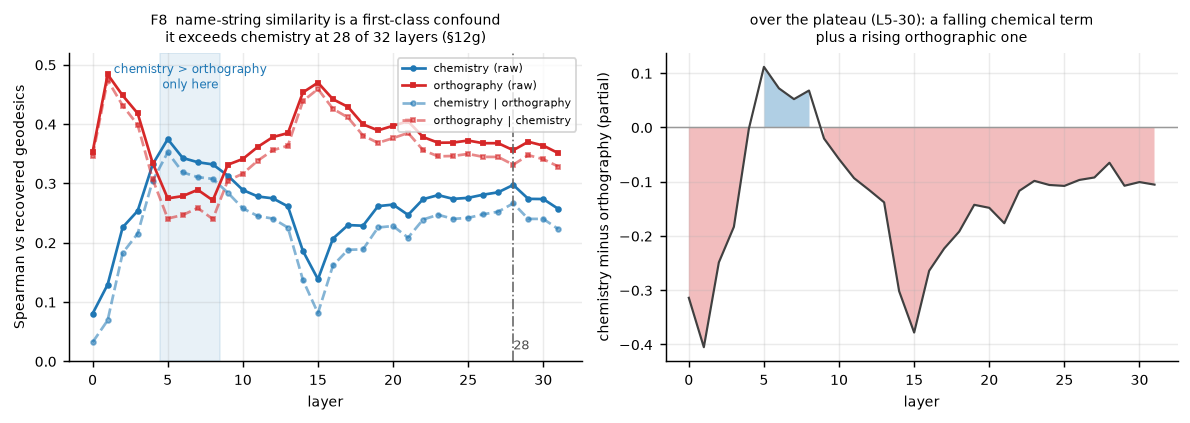
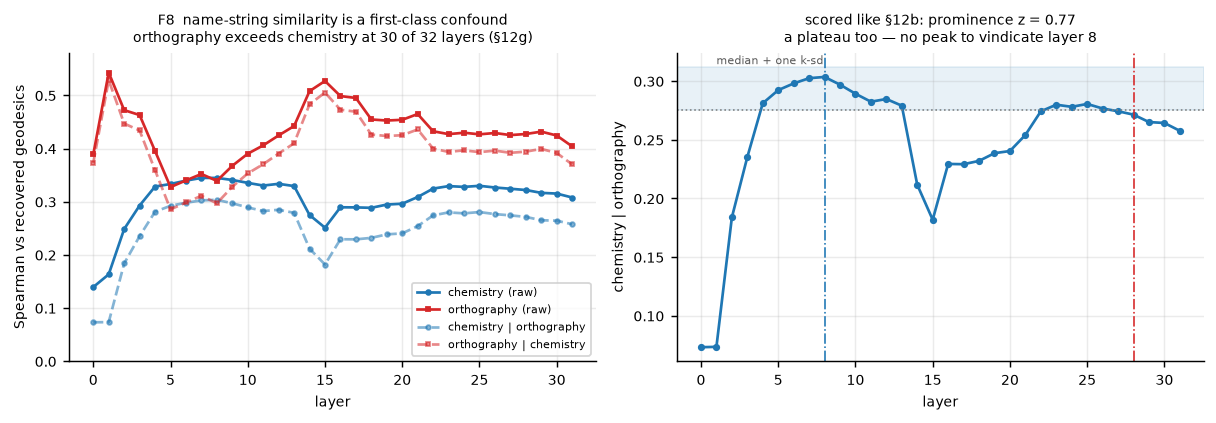
Reconcile §12g: arithmetic closes, but two of its consequences were wrong pair set
The reconciliation check was demanded before Level 3 and it found a real error --
in the correction, not in the original reversal.

RECONCILIATION. The partial reproduces exactly from the three zero-order rhos at
every layer ((r_gT - r_gN*r_TN)/sqrt((1-r_gN^2)(1-r_TN^2)), three decimals,
32/32). So the formula is right. The apparent impossibility -- a plateau layer
dropping to 0.08 under a rho=0.144 correction -- resolves as two of the three
proposed causes at once:
  - the ALL-PAIRS raw correlation at layers 14-15 really was low (0.186, 0.138),
    so "flat raw curve" was never true of that series; the §3g plateau was
    established on the UNCENSORED series, where those layers read 0.275/0.251;
  - rho(Tanimoto, name-string) is 0.144 all-pairs but 0.190 UNCENSORED, because
    censored pairs are the zero-overlap ones and are also more name-dissimilar.
§12g had been computed on all pairs while the headline Level 1 lives on the
uncensored set -- the same inconsistency class as the earlier within_group_rsa
error. orthography_vs_chemistry now defaults to uncensored and records which set
it used.

WITHDRAWN, after scoring the partial profile by the same noise-unit statistic
§12b used to reject a peak (across the k grid, uncensored):
  raw uncensored RSA                  prominence z = 0.57  -> no peak
  partial chemistry|orthography       prominence z = 0.77  -> NO PEAK
  partial, all pairs (wrong set)      prominence z = 2.16  -> would have been one
[…]

diff --git a/scripts/figures_stage_a.py b/scripts/figures_stage_a.py
@@ -179,9 +179,15 @@ def figure_pca_dim_sweep():
 
 
 def figure_orthography():
-    """§12g: the chemical component of Level 1, with name similarity partialled out."""
+    """§12g: chemistry vs orthography, on the UNCENSORED pair set (the headline's)."""
     d = pd.read_csv(config.RESULTS / "orthography_profile.csv").sort_values("layer")
-    fig, ax = plt.subplots(1, 2, figsize=(9.2, 3.3))
+    prof = pd.read_parquet(config.RESULTS / "orthography_profile.parquet")
+    prof = prof[prof.uncensored]
+    ksd = float(prof.groupby("layer").partial_geo_truth_given_name.std().mean())
+    tail = d.set_index("layer").partial_geo_truth_given_name.loc[4:]
+    z = (tail.max() - tail.median()) / ksd
+
+    fig, ax = plt.subplots(1, 2, figsize=(9.4, 3.3))
     a = ax[0]
     a.plot(d.layer, d.rho_geo_truth, "o-", ms=2.6, color="C0", label="chemistry (raw)")
     a.plot(d.layer, d.rho_geo_name, "s-", ms=2.4, color="C3", label="orthography (raw)")
@@ -189,27 +195,22 @@ def figure_orthography():
            label="chemistry | orthography")
     a.plot(d.layer, d.partial_geo_name_given_truth, "s--", ms=2.4, color="C3", alpha=.55,
            label="orthography | chemistry")
-    win = d[d.partial_geo_truth_given_name > d.partial_geo_name_given_truth]
-    if len(win):
-        a.axvspan(win.layer.min() - .5, win.layer.max() + .5, color="C0", alpha=.10)
-        a.annotate("chemistry > orthography\nonly here", (win.layer.mean(), .46),
-                   ha="center", fontsize=6.5, color="C0")
-    a.axvline(28, color="0.4", ls="-.", lw=.9)
-    a.annotate("28", (28, .02), fontsize=7, color="0.3")
+    n_orth = int((d.partial_geo_name_given_truth > d.partial_geo_truth_given_name).sum())
     a.set_xlabel("layer"); a.set_ylabel("Spearman vs recovered geodesics")
-    a.set_title("F8  name-string similarity is a first-class confound\n"
-                "it exceeds chemistry at 28 of 32 layers (§12g)", fontsize=8)
-    a.legend(fontsize=6.2, loc="upper right"); a.set_ylim(0, .52)
+    a.set_title(f"F8  name-string similarity is a first-class confound\n"
+                f"orthography exceeds chemistry at {n_orth} of 32 layers (§12g)", fontsize=8)
+    a.legend(fontsize=6.2, loc="lower right"); a.set_ylim(0, .58)
 
     b = ax[1]
-    m = d.partial_geo_truth_given_name - d.partial_geo_name_given_truth
-    b.axhline(0, color="0.6", lw=.8)
-    b.fill_between(d.layer, 0, m, where=(m > 0), color="C0", alpha=.35, lw=0)
-    b.fill_between(d.layer, 0, m, where=(m <= 0), color="C3", alpha=.30, lw=0)
-    b.plot(d.layer, m, "-", color="0.25", lw=1.2)
-    b.set_xlabel("layer"); b.set_ylabel("chemistry minus orthography (partial)")
-    b.set_title("over the plateau (L5-30): a falling chemical term\n"
-                "plus a rising orthographic one", fontsize=8)
+    b.plot(d.layer, d.partial_geo_truth_given_name, "o-", ms=3, color="C0")
+    med = float(tail.median())
+    b.axhline(med, color="0.5", ls=":", lw=.9)
+    b.axhspan(med, med + ksd, color="C0", alpha=.10)
+    b.annotate(f"median + one k-sd", (1, med + ksd), fontsize=6.2, color="0.35", va="bottom")
+    b.axvline(8, color="C0", ls="-.", lw=.9); b.axvline(28, color="C3", ls="-.", lw=.9)
+    b.set_xlabel("layer"); b.set_ylabel("chemistry | orthography")
+    b.set_title(f"scored like §12b: prominence z = {z:.2f}\n"
+                f"a plateau too — no peak to vindicate layer 8", fontsize=8)
     fig.tight_layout()
     fig.savefig(config.FIGURES / "F8_orthography.png", bbox_inches="tight")
     print("wrote F8")

diff --git a/scripts/orthography_profile.py b/scripts/orthography_profile.py
@@ -1,0 +1,71 @@
+"""SPEC §12g: chemistry vs orthography across depth, scored the same way §12b was.
+
+Computed on the UNCENSORED pair set (the one the headline Level 1 lives on) and
+across the k grid, so the partial profile can be judged by the same noise-unit
+prominence statistic that rejected a peak in the raw profile. "By inspection" is
+not a criterion.
+
+    python scripts/orthography_profile.py
+"""
+from __future__ import annotations
+import sys
+from pathlib import Path
+sys.path.insert(0, str(Path(__file__).resolve().parent.parent))
+
+import numpy as np
+import pandas as pd
+import torch
+
+import config
+from src import chemistry as C, geometry as G, evaluation as E
+
+
+def main():
+    blob = torch.load(config.ACTS / "family1.pt", weights_only=False)
+    acts = blob["acts"].numpy()
+    df = pd.read_csv(config.DATA / "compounds.csv")
+    names = list(df["name"])
+    Dt = C.tanimoto_distance_matrix(df.smiles.tolist())
+
+    rows = []
+    for layer in range(config.N_LAYERS):
+        X = np.ascontiguousarray(acts[:, layer, :])
+        Xp, _ = G.pca_project(X, config.PCA_DIM)
+        ids = G.intrinsic_dimension(Xp)
+        d_hat = G.d_hat_from(ids, "id_mle")
+        for k in config.K_SWEEP:
+            _, D_geo, _ = G.isomap_embed(Xp, n_components=d_hat, k=k)
+            for unc in (True, False):
+                r = E.orthography_vs_chemistry(D_geo, Dt, names, uncensored=unc)
+                r.update(layer=layer, k=k)
+                rows.append(r)
+    out = pd.DataFrame(rows)
+    out.to_parquet(config.RESULTS / "orthography_profile.parquet", index=False)
+
+    for unc in (True, False):
+        sub = out[out.uncensored == unc]
+        tag = "UNCENSORED (headline pair set)" if unc else "all pairs"
+        prof = sub.groupby("layer")[["partial_geo_truth_given_name",
+                                     "partial_geo_name_given_truth",
+                                     "rho_geo_truth", "rho_geo_name"]].mean()
+        ksd = float(sub.groupby("layer").partial_geo_truth_given_name.std().mean())
+        tail = prof.partial_geo_truth_given_name.loc[4:]
+        z = (tail.max() - tail.median()) / ksd
+        n_orth = int((prof.partial_geo_name_given_truth
+                      > prof.partial_geo_truth_given_name).sum())
+        print(f"\n=== {tag} ===")
+        print(f"  chemistry|orthography: max {tail.max():.3f} at layer {int(tail.idxmax())}, "
+              f"median {tail.median():.3f}, layer 28 {prof.partial_geo_truth_given_name.loc[28]:.3f}")
+        print(f"  k-sweep sd = {ksd:.4f}")
+        print(f"  PROMINENCE z = {z:.2f}   (§12b rejected a peak at 0.50-1.00)")
+        print(f"  layers where orthography exceeds chemistry: {n_orth}/32")
+
+    piv = (out[out.uncensored].groupby("layer")[["rho_geo_truth", "rho_geo_name",
+           "partial_geo_truth_given_name", "partial_geo_name_given_truth"]].mean())
+    piv.to_csv(config.RESULTS / "orthography_profile.csv")
+    print("\nuncensored profile (mean over k):")
+    print(piv.loc[[0, 4, 5, 8, 10, 14, 15, 20, 24, 28, 31]].round(3).to_string())
+
+
+if __name__ == "__main__":
+    main()

diff --git a/src/evaluation.py b/src/evaluation.py
@@ -408,7 +408,8 @@ def partial_spearman(x: np.ndarray, y: np.ndarray, z: np.ndarray) -> float:
     return float((rxy - rxz * ryz) / denom) if denom > 0 else float("nan")
 
 
-def orthography_vs_chemistry(D_recovered, D_truth, names, final_tokens=None) -> dict:
+def orthography_vs_chemistry(D_recovered, D_truth, names, final_tokens=None,
+                             censor_at: float = 1.0, uncensored: bool = True) -> dict:
     """Does the recovered geometry track name strings independently of chemistry?
 
     This is the DIRECT form of the confound that `within_group_rsa` only tests
@@ -422,6 +423,14 @@ def orthography_vs_chemistry(D_recovered, D_truth, names, final_tokens=None) -> 
     Dn = name_distance_matrix(names)
     iu = np.triu_indices_from(D_truth, k=1)
     g, t, nm = D_recovered[iu], D_truth[iu], Dn[iu]
+    # Default to the UNCENSORED pair set, because that is the pair set the
+    # headline Level 1 number lives on. Computing this on all pairs while the
+    # headline is uncensored makes the two incomparable -- and it matters here:
+    # rho(Tanimoto, name-string) is 0.144 over all pairs but 0.190 uncensored,
+    # since censored pairs are the zero-overlap ones and are also more
+    # name-dissimilar.
+    keep = np.ones_like(t, dtype=bool) if not uncensored else (t < censor_at - 1e-6)
+    g, t, nm = g[keep], t[keep], nm[keep]
     out = {
         "rho_geo_truth": float(spearmanr(g, t).statistic),
         "rho_geo_name": float(spearmanr(g, nm).statistic),
@@ -429,9 +438,11 @@ def orthography_vs_chemistry(D_recovered, D_truth, names, final_tokens=None) -> 
         "partial_geo_name_given_truth": partial_spearman(g, nm, t),
         "partial_geo_truth_given_name": partial_spearman(g, t, nm),
     }
+    out["n_pairs"] = int(g.size)
+    out["uncensored"] = bool(uncensored)
     if final_tokens is not None:
         ft = np.asarray(final_tokens)
-        tk = (ft[:, None] != ft[None, :]).astype(np.float32)[iu]
+        tk = (ft[:, None] != ft[None, :]).astype(np.float32)[iu][keep]
         out["rho_geo_difftoken"] = float(spearmanr(g, tk).statistic)
         out["partial_geo_difftoken_given_truth"] = partial_spearman(g, tk, t)
         out["partial_geo_truth_given_difftoken"] = partial_spearman(g, t, tk)

diff --git a/SPEC.md b/SPEC.md
@@ -834,85 +834,93 @@ Report the bootstrap **median and 2.5/97.5 percentiles** of `r` rather than
 mean ± SE, since a heavy-tailed ratio has no useful mean.
 
 
-### 12g. Orthography is a first-class confound, and at most layers it dominates
+### 12g. Orthography is a first-class confound (revised: pair set corrected)
 
-**This reverses a claim made in an earlier draft of §11c-bis.** The
-within-final-token control was read as showing the grouping variable is
-"chemistry, not orthography". Its own numbers say the opposite, and the direct
-measurement confirms it.
+**This reverses a claim in an earlier draft of §11c-bis** — that the grouping
+variable is "chemistry, not orthography" — and then **withdraws two consequences
+this section itself drew**, which were computed on the wrong pair set.
 
-**Why the proxy comparison was uninterpretable.** Final token gives ρ = 0.556 and
-functional class ρ = 0.439; the partitions differ in granularity, group count,
-size distribution and within-group Tanimoto range, and range restriction moves ρ
-by itself. Putting both on one scale via their *own* size-matched nulls:
+**The proxy comparison was uninterpretable.** Final token gives ρ = 0.556 and
+functional class 0.439; the partitions differ in granularity, group count, size
+distribution and within-group Tanimoto range, and range restriction moves ρ by
+itself. Each partition against its *own* size-matched null:
 
 | partition | ρ (uncensored) | null | **z** | groups |
 |---|---|---|---|---|
 | final token | 0.556 | 0.343 ± 0.022 | **9.5** | 9 |
 | functional class | 0.439 | 0.343 ± 0.023 | **4.2** | 12 |
 
-The orthographic partition is more than twice as far above its null.
+The orthographic partition is more than twice as far above its null, which is the
+opposite of what the withdrawn claim asserted.
 
-**The direct test.** Take the Spearman partial correlation of recovered geodesics
-against name-string distance (1 − difflib ratio) controlling for Tanimoto, and
-vice versa. Tanimoto and name-string distance are nearly independent (ρ = 0.144),
-so the partials are interpretable. At layer 8:
+#### The pair set, and a reconciliation check
 
-| | ρ |
-|---|---|
-| geodesic ~ Tanimoto (raw) | 0.332 |
-| geodesic ~ name-string (raw) | 0.271 |
-| **geodesic ~ Tanimoto \| name-string** | **0.307** |
-| **geodesic ~ name-string \| Tanimoto** | **0.240** |
+A first version of this section computed the partials over **all** pairs while the
+headline Level 1 number is **uncensored-only**. That is not a detail:
+ρ(Tanimoto, name-string) is **0.144 over all pairs but 0.190 uncensored**, because
+censored pairs are the zero-overlap ones and are also more name-dissimilar. Every
+number below is on the uncensored set.
 
-Chemistry survives controlling for orthography, so the *strong* confound — "the
-recovered geometry is just name similarity" — is false. But orthography carries a
-substantial **independent** contribution of comparable magnitude, which the
-within-group control could never have bounded.
+The partial formula reproduces exactly from the three zero-order correlations at
+every layer (`(r_gT − r_gN·r_TN) / sqrt((1−r_gN²)(1−r_TN²))`, checked to three
+decimals, 32/32 layers), so the arithmetic closes. The apparent puzzle — a
+"plateau" layer dropping to 0.08 under a ρ=0.144 correction — was not a partialling
+artifact: the **all-pairs** raw correlation at layers 14–15 was genuinely low
+(0.186, 0.138). The §3g plateau was established on the *uncensored* series, where
+those layers read 0.275 and 0.251. Two different quantities were being compared.
 
-**Across depth it is worse, and this is the important part.** Orthography exceeds
-chemistry at **28 of 32 layers**; the only exceptions are **layers 5–8**.
+#### What survives: the confound itself, and it is larger than first reported
 
-| layer | geo~Tanimoto \| name | geo~name \| Tanimoto |
+| layer | geo~Tanimoto (raw) | geo~name (raw) | chem \| orth | orth \| chem |
+|---|---|---|---|---|
+| 0 | 0.139 | 0.389 | 0.073 | 0.373 |
+| 5 | 0.333 | 0.328 | 0.292 | 0.286 |
+| **8** | 0.345 | 0.339 | **0.304** | 0.297 |
+| 15 | 0.251 | 0.527 | 0.182 | 0.505 |
+| 24 | 0.328 | 0.430 | 0.278 | 0.397 |
+| 28 | 0.322 | 0.427 | 0.271 | 0.394 |
+
+**Orthography exceeds chemistry at 30 of 32 layers** (uncensored; the first draft
+said 28/32 on the wrong pair set). Only layers 5 and 8 are exceptions, and there
+the two are effectively tied (0.292 vs 0.286; 0.304 vs 0.297). Chemistry does
+survive controlling for orthography, so the strong confound — "the recovered
+geometry is just name similarity" — is false. But name-string similarity is a
+contributor of comparable or greater magnitude at essentially every depth, and
+`within_group_rsa` could never have bounded it. Layer 0 reads raw orthography
+0.389 against raw chemistry 0.139, as a token embedding must, which is a sanity
+check that the measure detects what it claims.
+
+#### Withdrawn: the depth-structure consequences
+
+Two claims made here on the all-pairs computation do **not** survive scoring on
+the correct pair set by the same criterion §12b used:
+
+| profile | prominence z | verdict |
 |---|---|---|
-| 0 | 0.032 | 0.346 |
-| 4 | 0.305 | 0.307 |
-| **5** | **0.352** | 0.310 |
-| **8** | **0.307** | 0.240 |
-| 14 | 0.137 | 0.439 |
-| 20 | 0.228 | 0.376 |
-| 28 | 0.266 | 0.331 |
+| raw uncensored RSA (§12b, d=64) | 0.57 | no peak |
+| **partial chemistry \| orthography, uncensored** | **0.77** | **no peak** |
+| partial chemistry, all pairs (wrong set) | 2.16 | would have been a peak |
 
-Layer 0 behaves exactly as it must — raw orthography 0.353 against raw chemistry
-0.080, since that is essentially the token embedding — which is a sanity check
-that the measure detects what it claims to.
+- **Withdrawn: "the verdict shifts toward Singh & Chopra."** Their
+  rise-peak-attenuate pattern does *not* appear once the partial is computed on
+  the headline pair set. The decontaminated profile is a plateau by the same
+  noise-unit statistic that rejected a peak in the raw one.
+- **Withdrawn: "this independently vindicates layer 8."** The partial profile has
+  no peak to vindicate it with. Layer 8 is still the argmax (0.304) but layer 28
+  is 0.271, a gap of 0.033 against a k-sweep sd of 0.0367. **The §12a tie-break
+  stands on its own**, which is the correct and unglamorous outcome.
+- **Corrected wording.** The earlier text described "a falling chemical term plus
+  a rising orthographic one", which treats partials as additive components of the
+  raw curve. They are not: the raw RSA is a mixture and the partial is chemistry's
+  share of it. Both the raw and the partial profiles are plateaus; the plateau is
+  **not** an artifact of the confound.
 
-**Three consequences.**
+#### Level 2 and Level 3 are insulated, for one reason
 
-1. **The §3g plateau is partly an artifact of the confound.** Raw Level-1 RSA is
-   flat from layer 5 to 30, but the *chemical* component is not: it rises from
-   0.032 at layer 0 to a peak of 0.352 at layer 5, drops sharply to 0.08–0.14 at
-   layers 14–15, and recovers only to 0.24–0.27 late. Over the plateau range the
-   flat raw curve is a falling chemical term plus a rising orthographic one. The
-   14–15 dip is not smooth decline and is not explained here; it coincides with
-   the dip already visible in raw RSA (§3g profile), so it is a feature of the
-   representation at those layers rather than of the partialling.
-2. **§3g's verdict shifts toward Singh & Chopra.** Their rise-peak-attenuate
-   pattern *does* appear in chemistry once name-string similarity is partialled
-   out; it is invisible in the raw RSA that §12b was computed on. Wurgaft's
-   "layer 28 is late enough" looks worse under this measure, not better: at
-   layer 28 orthography (0.331) exceeds chemistry (0.266).
-3. **It independently vindicates layer 8 as primary (§12a).** The RSA tie-break
-   chose 8 from a flat profile where the choice barely mattered. The
-   decontaminated measure has a genuine peak in the 5–8 window, and layer 28 is
-   outside it. Two different criteria now agree, which is a much stronger footing
-   than the plateau alone gave.
-
-**Level 2 is insulated from all of this**, and this is now load-bearing rather
-than decorative. §11c argued the acid series is an orthographic control because
-its trivial names carry no lexical ordering. Measured, that is true of **every**
-series — the Spearman between name-string distance and absolute
-carbon-count difference is ~0 throughout — while Level 2 recovery is 0.87–0.98:
+Not because Level 3 is causal — a causal intervention can run along an
+orthographic direction as easily as a chemical one. Both levels are insulated
+because **their target variable is carbon count within a homologous series, and
+name-string distance carries no information about it**:
 
 | series | rho(name distance, abs carbon-count difference) | Level 2 abs-rho |
 |---|---|---|
@@ -921,15 +929,51 @@ carbon-count difference is ~0 throughout — while Level 2 recovery is 0.87–0.
 | acid | −0.085 | 0.905 |
 | alkene | −0.057 | 0.933 |
 
-`meth/eth/prop/but/pent` are lexically unrelated strings, so ordinal recovery
-within a series **cannot** be string similarity. The orthographic-control framing
-of §11c was too narrow: it is not only the acids, it is the whole of Level 2.
+`meth/eth/prop/but/pent` are lexically unrelated, so ordinal recovery within a
+series cannot be string similarity.
 
-**Limitations of this measurement.** Name-string distance via difflib is a crude
-proxy for whatever the tokenizer and early layers actually encode; a partial
-correlation removes only the component linear in ranks; and both are single
-summary numbers over a 218-compound set. The direction and size of the effect are
-robust across layers, but "orthography contributes ≈ 0.24 at layer 8" should be
-read as an order of magnitude, not a coefficient. This belongs in the writeup's
-limitations per §10, and prominently: it is the largest threat to the Stage A
-instrument claim found so far.
+**Stated precisely:** this rules out *string similarity*, not lexical knowledge in
+general. The model may well hold the series as a memorised ordered list. For Stage
+A that is not a problem — the pipeline only requires the ground truth to be
+present in the activations, not to have been derived chemically — but Level 2 must
+therefore be described as recovering an **ordinal** structure, not a "chemical"
+one.
+
+#### Limitations
+
+difflib ratio is a crude proxy for what the tokenizer and early layers encode; a
+partial correlation removes only the component linear in ranks; these are summary
+numbers over 218 compounds. The direction and size are stable across layers and
+across the k grid, but "orthography ≈ 0.30 at layer 8" is an order of magnitude,
+not a coefficient. This belongs prominently in the writeup's limitations per §10:
+it is the largest threat to the Stage A instrument claim found so far, and it
+lands on the headline Level 1 number rather than on a side control.
+
+### 12h. Stage B inherits this, pre-registered now (amends §4d)
+
+The refusal analog of name-string similarity is **prompt surface similarity**. If
+refusal geometry tracks how the prompts are worded, the curvature and
+intrinsic-dimension claims of §4d inherit exactly the problem §12g found in Stage
+A — and finding that out after the fact a second time is not acceptable.
+
+Added to the §3j/§4d null battery as a **mandatory nuisance-variable control**,
+fixed before Stage B activations are examined:
+
+1. Build `D_surface` over the ~600 prompts: normalised character edit distance
+   and token-level Jaccard over n-grams (report both).
+2. Report the raw Spearman of recovered geodesics against `D_surface`, and the
+   **partial** against it controlling for the recovered refusal coordinate, and
+   vice versa — the same two-way partial used in §12g.
+3. Also control the obvious co-varying nuisances that differ by source split:
+   **prompt length in tokens**, and **source identity** (harmful / harmless /
+   XSTest), since the three corpora differ in register and length as well as in
+   harmfulness.
+4. §4e's behavioural correlation is reported **both** raw and partialled on
+   `D_surface` and length. If the coordinate-to-`refusal_prob` relationship does
+   not survive partialling, the honest reading is that the recovered axis is
+   surface form or length, and §4e already commits to reporting that outcome
+   as-is.
+
+A curved refusal manifold that is really a prompt-phrasing manifold would be the
+same result as §12g, one stage later, and the pre-registration is what prevents
+it being discovered by a reviewer instead of by us.
